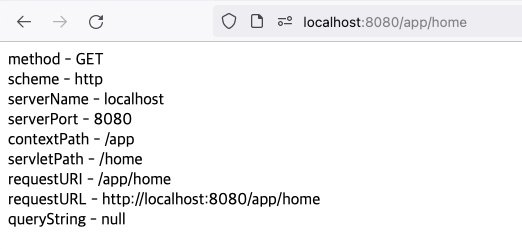
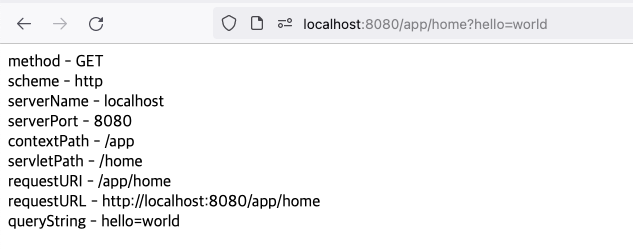
Change information in http servlet request

Changed region(s): [[0.0, 0.0562, 1.0, 0.506], [0.0, 0.5341, 0.613, 0.9277], [0.0307, 0.0562, 0.0613, 0.1124]]

diff --git a/_posts/2023-12-19-information-in-http-servlet-request.md b/_posts/2023-12-19-information-in-http-servlet-request.md
@@ -229,9 +229,7 @@ Tomcat started.
 
 ### 3.2. Deploy Application
 
-애플리케이션을 war 파일로 패키징(packaging)하여 톰캣 서버에 배포한다. 애플리케이션을 배포하는 방법은 [Deploy War Package for Spring Boot Project][deploy-spring-boot-project-as-war-link] 포스트를 참고하길 바란다. 
-
-컨트롤러 코드를 다음과 같이 변경한다. HttpServletRequest 객체에 어떤 정보가 들어있는지 브라우저를 통해 확인하기 위해 다음과 같은 응답을 만든다.
+애플리케이션을 war 파일로 패키징(packaging)하여 톰캣 서버에 배포한다. 애플리케이션을 배포하는 방법은 [Deploy War Package for Spring Boot Project][deploy-spring-boot-project-as-war-link] 포스트를 참고하길 바란다. 테스트를 위해 컨트롤러 코드를 변경한다. HttpServletRequest 객체에 어떤 정보가 들어있는지 브라우저를 통해 확인하기 위해 다음과 같은 응답을 만든다.
 
 ```java
 package blog.in.action.controller;
@@ -309,7 +307,7 @@ $ cp build/libs/action-in-blog-0.0.1-SNAPSHOT-plain.war ~/Desktop/workspace/apac
 - 요청 URI는 /home 이다.
 
 <p align="center">
-  <img src="/images/information-in-http-servlet-request-01.png" width="100%" class="image__border">
+  <img src="/images/information-in-http-servlet-request-01.png" width="80%" class="image__border">
 </p>
 
 #### 3.3.2. /app path
@@ -321,7 +319,7 @@ $ cp build/libs/action-in-blog-0.0.1-SNAPSHOT-plain.war ~/Desktop/workspace/apac
 - 요청 URI는 /app/home 이다.
 
 <p align="center">
-  <img src="/images/information-in-http-servlet-request-02.png" width="100%" class="image__border">
+  <img src="/images/information-in-http-servlet-request-02.png" width="80%" class="image__border">
 </p>
 
 #### 3.3.3. /admin path
@@ -333,7 +331,7 @@ $ cp build/libs/action-in-blog-0.0.1-SNAPSHOT-plain.war ~/Desktop/workspace/apac
 - 요청 URI는 /admin/home 이다.
 
 <p align="center">
-  <img src="/images/information-in-http-servlet-request-03.png" width="100%" class="image__border">
+  <img src="/images/information-in-http-servlet-request-03.png" width="80%" class="image__border">
 </p>
 
 #### TEST CODE REPOSITORY
